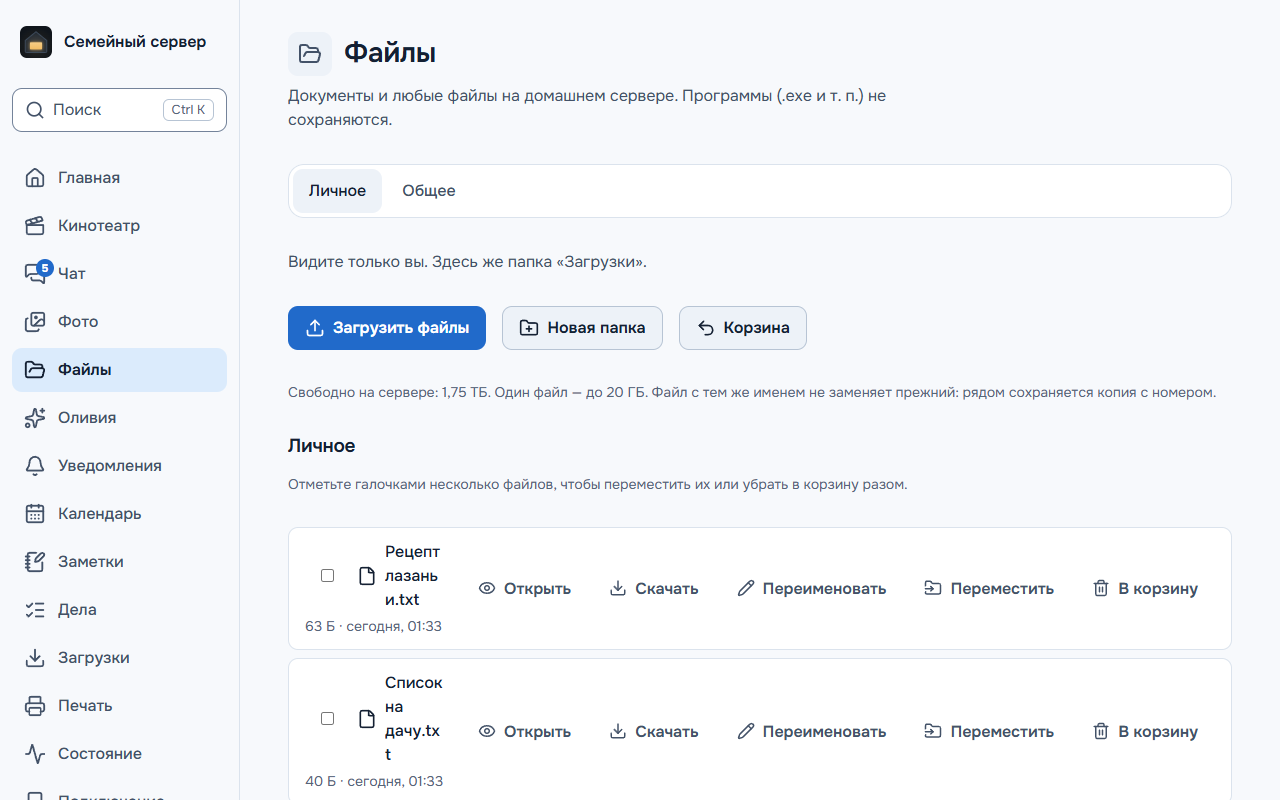
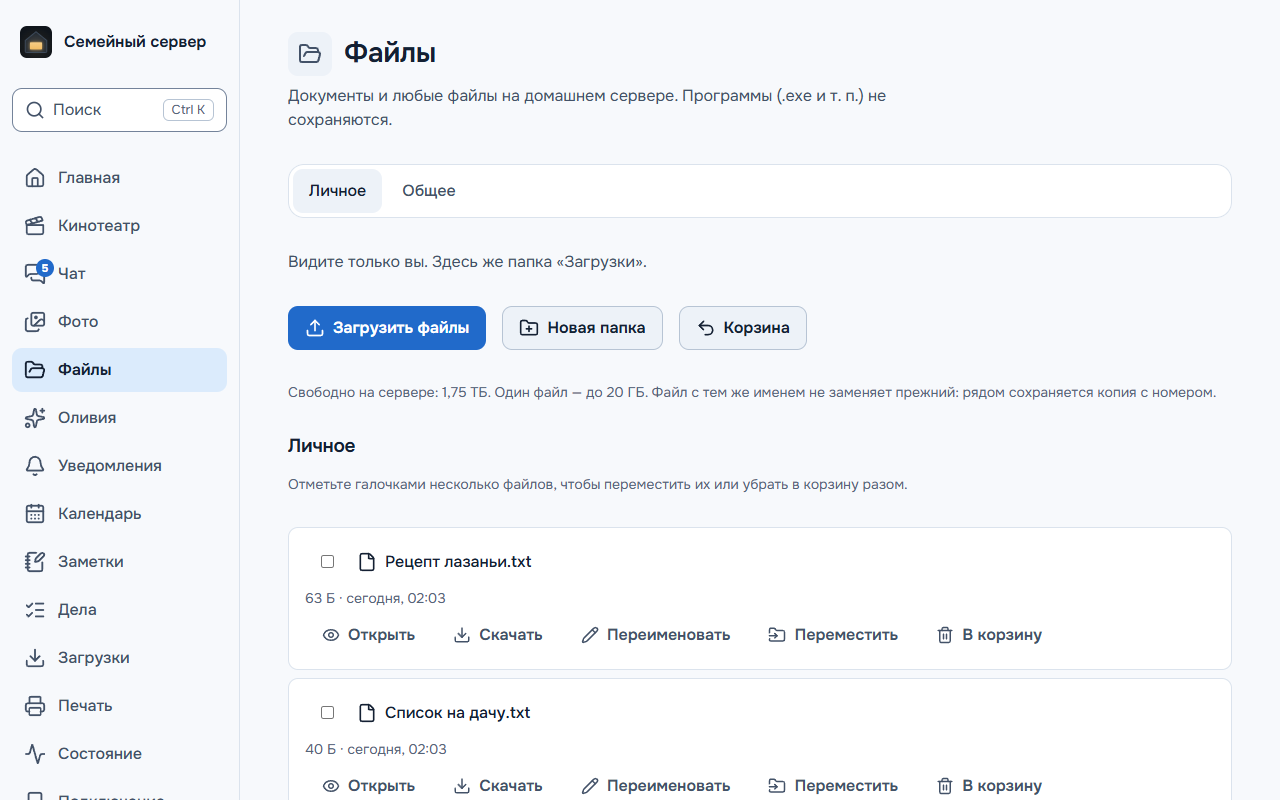
Final results of the stage in the status documents; calls test keeps the Chrome copy
- EXECUTION_STATUS: numbers of the consolidated pass (unit, browser, guide pictures, OpenSpec, audit),
  the second interrupted run (the PC rebooted by itself again at 01:53).
- Guide pictures retaken after the files list got its actions below the name.
- tests/e2e/calls.spec.ts: the launch options override no longer drops E2E_CHROME.

diff --git a/tests/e2e/calls.spec.ts b/tests/e2e/calls.spec.ts
@@ -10,6 +10,8 @@ import { signIn } from './helpers.ts';
  */
 test.use({
   launchOptions: {
+    // A copy of Chrome (see playwright.config.ts) must survive this override of the launch options.
+    ...(process.env.E2E_CHROME?.trim() ? { executablePath: process.env.E2E_CHROME.trim() } : {}),
     args: [
       '--use-fake-device-for-media-stream',
       '--use-fake-ui-for-media-stream',

diff --git a/docs/EXECUTION_STATUS.md b/docs/EXECUTION_STATUS.md
@@ -16,7 +16,7 @@ _Обновлено: 20.10.2026._ Этапы ТЗ `1.txt` (P1–P10), допол
 
 ## Главное сейчас (честно)
 
-1. **Оборудование нестабильно.** За 16–20.10.2026 журнал Windows: 10 неожиданных выключений, 7 аппаратных ошибок (WHEA), 315 повторов ввода-вывода у неисправного диска `ST_M13FQBL`; установленный Chrome падает при каждом запуске. Это угрожает любой работе и данным; порядок проверки — [owner-actions.md](owner-actions.md), раздел «Оборудование». Тесты в браузере идут на копии Chrome (`E2E_CHROME`).
+1. **Оборудование нестабильно.** За 16–20.10.2026 журнал Windows: 11 неожиданных выключений, 7 аппаратных ошибок (WHEA), 315 повторов ввода-вывода у неисправного диска `ST_M13FQBL`; установленный Chrome падает при каждом запуске. Это угрожает любой работе и данным; порядок проверки — [owner-actions.md](owner-actions.md), раздел «Оборудование». Тесты в браузере идут на копии Chrome (`E2E_CHROME`).
 2. **GitHub: вход истёк.** Код этого этапа локально закоммичен, но на GitHub не отправлен (нужен ваш вход, [owner-actions.md](owner-actions.md), пункт 4/11); ночное зеркало пишет «нет доступа».
 3. Tailscale на ПК при последней проверке был **остановлен** (`scripts\status.cmd`): пока он выключен, портал с телефона не открывается.
 
@@ -63,13 +63,13 @@ _Обновлено: 20.10.2026._ Этапы ТЗ `1.txt` (P1–P10), допол
 
 | Проверка | Результат |
 |---|---|
-| `biome check` | ИТОГ_BIOME |
-| `tsc` (сервер, веб, e2e) | ИТОГ_TSC |
-| `vitest run` | ИТОГ_VITEST |
-| `playwright test` (Chrome — копия, `E2E_CHROME`) | ИТОГ_E2E |
-| `guide:screenshots` | ИТОГ_GUIDE |
-| `openspec validate --all --strict` | ИТОГ_OPENSPEC |
-| `npm audit` | ИТОГ_AUDIT |
+| `biome check` | без ошибок (10 информационных подсказок о стиле в старых тестах) |
+| `tsc` (сервер, веб, e2e) | без ошибок во всех трёх проектах |
+| `vitest run` | 76 файлов, 1005 тестов. Первый полный прогон: 1003 прошли, 2 упали — тест очереди загрузок зависел от времени (файл успевал докачаться, пока шли три входа) и тест отчёта ждал настоящий путь, а санитайзер прячет имя пользователя Windows. Оба исправлены; **эти два файла** (22 теста) после правки прошли отдельно, **полный прогон после правки не повторялся** |
+| `playwright test` (Chrome — копия, `E2E_CHROME`) | 121 тест: real 86, chat 6, calls 3, demo 2, cinema 24 — все прошли. Прогон шёл в два приёма: ПК сам перезагрузился в 01:53 и оборвал его; незавершённое (chat, calls, demo, cinema) прогнано заново отдельно. Одна «нестабильная» попытка: тест ширины 390 px упал за 1,5 с и прошёл со второй (сбой среды). Тест звонков пришлось научить брать копию Chrome |
+| `guide:screenshots` | 9 сцен пройдено, 25 снимков в `docs/images/family-guide/` (после правки раскладки списка файлов снимки сняты заново) |
+| `openspec validate --all --strict` | 15 из 15 (14 спецификаций и новое изменение этого этапа) |
+| `npm audit` | 0 уязвимостей |
 
 ## Известные ограничения среды
 

diff --git a/docs/NEXT_SESSION_PROMPT.md b/docs/NEXT_SESSION_PROMPT.md
@@ -8,7 +8,7 @@
 
 **Чего нет и что не считается работающим:** зашифрованная копия не настроена (нет носителя и ключа владельца); туннель Cloudflare и Cloudflare TURN — нужны аккаунт и домен владельца; звонок на двух настоящих устройствах, push и загрузка фото с настоящего телефона не проверялись; пауза/продолжение торрента на настоящей раздаче и обновление Jellyfin не подтверждены; температура процессора — нужна дополнительная программа.
 
-**Главное предупреждение.** ПК нестабилен: 10 неожиданных выключений за 4 дня, аппаратные ошибки WHEA, повторы ввода-вывода у неисправного диска `ST_M13FQBL`, установленный Chrome падает при запуске. Выяснение причины — действие владельца (`docs/owner-actions.md`, «Оборудование»). До этого новых компонентов не ставить; любую долгую задачу строить так, чтобы её можно было продолжить после перезагрузки.
+**Главное предупреждение.** ПК нестабилен: 11 неожиданных выключений за 4 дня, аппаратные ошибки WHEA, повторы ввода-вывода у неисправного диска `ST_M13FQBL`, установленный Chrome падает при запуске. Выяснение причины — действие владельца (`docs/owner-actions.md`, «Оборудование»). До этого новых компонентов не ставить; любую долгую задачу строить так, чтобы её можно было продолжить после перезагрузки.
 
 **GitHub:** вход истёк, `git push` без нового входа не пройдёт. Не вводи чужие токены и пароли; попроси владельца выполнить `git push origin main` и войти в открывшемся окне.
 

diff --git a/docs/ROADMAP_NEXT.md b/docs/ROADMAP_NEXT.md
@@ -4,7 +4,7 @@ _Обновлено: 20.10.2026._ Общий план и история — [roa
 
 ## 0. Что мешает всему остальному
 
-Сначала — оборудование: за неделю в журнале Windows десять неожиданных выключений и аппаратные ошибки, связанные с неисправным диском `ST_M13FQBL` ([owner-actions.md](owner-actions.md), раздел «Оборудование»). Пока ПК перезагружается сам, любая новая функция может быть прервана на середине, а резервные копии — единственная защита. До выяснения причины новых компонентов не ставим.
+Сначала — оборудование: за неделю в журнале Windows одиннадцать неожиданных выключений и аппаратные ошибки, связанные с неисправным диском `ST_M13FQBL` ([owner-actions.md](owner-actions.md), раздел «Оборудование»). Пока ПК перезагружается сам, любая новая функция может быть прервана на середине, а резервные копии — единственная защита. До выяснения причины новых компонентов не ставим.
 
 ## 1. Ближайшие шаги разработки (по пользе и риску)
 
